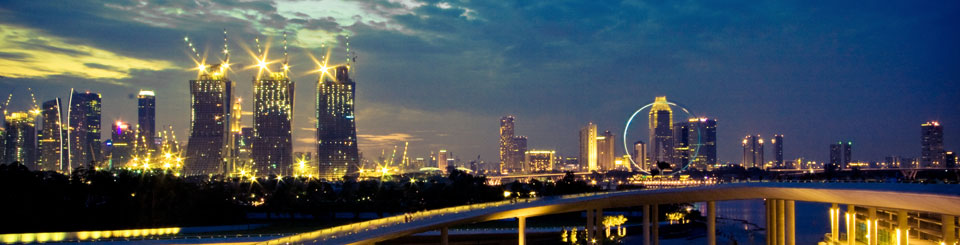
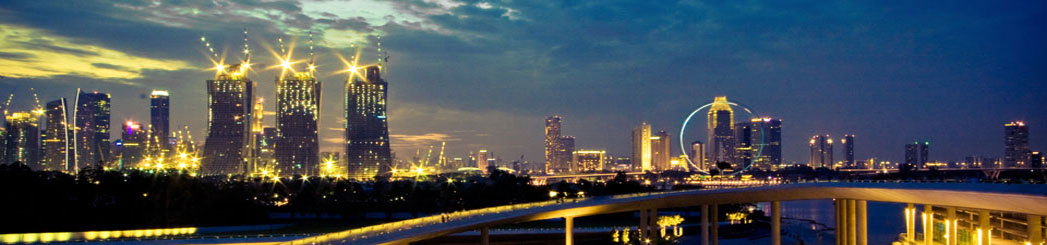
Theme Flexibility Changes
Made the theme a bit more flexible by changing some of the background
images into regular css. Also put some of the old widgets onto the
homepage.

Changed region(s): [[0.0625, 0.5714, 0.0938, 0.6286]]

diff --git a/themes/urban_city/css/templatemo_style.css b/themes/urban_city/css/templatemo_style.css
@@ -9,10 +9,8 @@ body {
 	font-family: Tahoma, Geneva, sans-serif;
 	font-size: 12px;
 	line-height: 1.7em; 
-	background-image: url(/themes/urban_city/images/templatemo_body.jpg);
+	/*background-image: url(/themes/urban_city/images/templatemo_body.jpg);*/
 	background-color: #fff;
-	background-position: top center;
-	background-repeat: repeat-x
 }
 
 a, a:link, a:visited { color: #38cdff; text-decoration: none; }
@@ -65,23 +63,45 @@ a.more:hover { text-decoration: none; color: #fff; }
 .tmo_list li a:hover { color: #990000; text-decoration: none; }
 
 #templatemo_wrapper {
-	width: 70%;
+	width: 100%;
+	background-image: url(/themes/urban_city/images/templatemo_body.jpg);
+	background-position: top center;
+	background-repeat: repeat-x;
+}
+
+#templatemo_body {
+	width: 80%;
 	margin: 0 auto;
 }
 
 #templatemo_header {
     height: 87px;
     padding: 0 0 0 30px;
-    margin-bottom: 40px;
-    background: url(/themes/urban_city/images/templatemo_header.jpg) no-repeat;
-	background-position: 10% 0%;
+    background-color: #041823;
 }
 
 #site_title {
 	float: left;
 	width: 20%;
-	padding-top: 28px;
+	padding-top: 25px;
+	padding-bottom: 3px;
 	margin-right: 40px;
+	margin-left: 10px;
+	margin-top: 18px;
+	margin-bottom: 15px;
+	background-color: #0A2F42;
+	/* IE10 Consumer Preview */ 
+	background-image: -ms-linear-gradient(top, #13465B 0%, #0A2F42 100%);
+	/* Mozilla Firefox */ 
+	background-image: -moz-linear-gradient(top, #13465B 0%, #0A2F42 100%);
+	/* Opera */ 
+	background-image: -o-linear-gradient(top, #13465B 0%, #0A2F42 100%);
+	/* Webkit (Safari/Chrome 10) */ 
+	background-image: -webkit-gradient(linear, left top, left bottom, color-stop(0, #13465B), color-stop(1, #0A2F42));
+	/* Webkit (Chrome 11+) */ 
+	background-image: -webkit-linear-gradient(top, #13465B 0%, #0A2F42 100%);
+	/* W3C Markup, IE10 Release Preview */ 
+	background-image: linear-gradient(to bottom, #13465B 0%, #0A2F42 100%);
 }
 
 #site_title h1 {

diff --git a/themes/urban_city/css/bootstrap.min.css b/themes/urban_city/css/bootstrap.min.css
@@ -386,8 +386,8 @@ a:hover {
     clear: both;
 }
 .container-fluid {
-    padding-right: 20px;
-    padding-left: 20px;
+    padding-right: 0px;
+    padding-left: 0px;
     *zoom: 1;
 }
 .container-fluid:before, .container-fluid:after {

diff --git a/themes/urban_city/css/nivo-slider.css b/themes/urban_city/css/nivo-slider.css
@@ -20,7 +20,7 @@
 	position:absolute;
 	top:0px;
 	left:0px;
-	width: 960px;
+	width: 1047px;
 	height: 280px
 }
 /* If an image is wrapped in a link */

diff --git a/themes/urban_city/css/abound.css b/themes/urban_city/css/abound.css
@@ -901,3 +901,7 @@ span.required
 .pager .next a, .pager .next span {
 	float: left;
 }
+
+#nivo {
+	max-height: 285px;
+}

diff --git a/themes/urban_city/views/site/index.php b/themes/urban_city/views/site/index.php
@@ -1,8 +1,10 @@
 
 <div id="templatemo_wrapper">
 	
+	<div id="templatemo_body">
+	
 	<div class="row-fluid">
-		<div class="span10">
+		<div class="span12" id="nivo">
 			<div id="slider">
 				<a href="#" target="_parent"><img src="<?php echo Yii::app()->theme->baseUrl;?>/images/slideshow/01.jpg" alt="01" title="Lorem ipsum dolor sit amet, consectetur adipiscing elit." /></a>
 				<a href="#" target="_parent"><img src="<?php echo Yii::app()->theme->baseUrl;?>/images/slideshow/02.jpg" alt="02" title="Nullam ante leo, consectetur eget adipiscing et." /></a>
@@ -15,7 +17,21 @@
 	
 	<div class="row-fluid">
 		<div id="templatemo_middle">
-			<div class="span6 v_divider">
+			<div class="span4 v_divider">
+				<?php
+				if(!isset(Yii::app()->user->id))
+					$this->widget('UserLogin');
+				else
+				{
+					echo "<h4>Last Login</h4>";
+					$this->widget('TimeReport');
+					echo "<h4>Weather</h4>";
+					$this->widget('WeatherReport');
+				}
+				?>
+			</div>
+			
+			<div class="span5 v_divider">
 				<h1>Welcome to CI2.0</h1>
 				<p>This is an Intranet website and can only be accessed from a computer 
 				inside the Metro/JIS Domain, just open an internet window and in the
@@ -25,22 +41,11 @@
 				You must be a Criminal Court Clerk employee to create an account. 
 				Site functions are disabled until you have logged in.</p>
 			</div>
-			
-			<div class="span5">
-				<div>
-					<p>
-						Donec iaculis felis id neque. Morbi nunc. Praesent varius egestas velit.
-					</p>
-					<p>
-						Donec a massa ut pede pulvinar vulputate Nulla et augue. Sed eu nunc quis pede tristique suscipit.
-					</p>
-					<p>
-						Nam sit amet justo vel libero tincidunt dignissim Cras magna velit, pellentesque mattis, faucibus vitae, feugiat vitae, sapien.
-					</p>
-					<p>
-						Fusce ac orci sit Amet velit ultrices condimentum. Integer imperdiet odio ac eros.
-					</p>
-				</div>
+			<div class="span3">
+				<?php 
+				echo "<h4>News</h4>";
+				$this->widget('NewsReport');
+				?>
 			</div>
 		</div>
 	</div>
@@ -48,10 +53,6 @@
 	<div class="row-fluid">
     <div id="templatemo_content">
 		
-		<?php
-    	if(!isset(Yii::app()->user->id))
-			$this->widget('UserLogin');
-		?>
     	<div class="span6">
         	<h2>Photo Gallery</h2>
             <ul class="gallery">
@@ -95,4 +96,5 @@
 		</div>
     </div>
 	</div>
+</div>
 </div>

diff --git a/themes/urban_city/views/layouts/column2.php b/themes/urban_city/views/layouts/column2.php
@@ -1,10 +1,11 @@
 <?php /* @var $this Controller */ ?>
 <?php $this->beginContent('//layouts/main'); ?>
-
-  <div class="row-fluid">
+	<br/>
+	<div id="templatemo_body">
+	<div class="row-fluid">
 	<div class="span3">
 		<div class="sidebar-nav">
-        
+
 		  <?php $this->widget('zii.widgets.CMenu', array(
 			/*'type'=>'list',*/
 			'encodeLabel'=>false,
@@ -16,7 +17,7 @@
 				array('label'=>'<i class="icon icon-book"></i> Human Resources', 'url'=>array('/hr/hrpolicy/index')),
 				// The link to the emergency response plan.
 				array('label'=>'<i class="icon icon-fire"></i> Emergency Response Plan', 'url'=>Yii::app()->baseUrl . '/assets/files/cep.pdf'),
-				
+
 				// Include the operations menu
 				array('label'=>'OPERATIONS','items'=>$this->menu1),
 			),
@@ -33,24 +34,24 @@
 			$this->endWidget();
 		  ?>
 		</div>
-        <br>
-		
-    </div><!--/span-->
-    <div class="span9">
-    
-    <?php if(isset($this->breadcrumbs)):?>
+		<br>
+	</div><!--/span-->
+	
+	<div class="span9">
+
+	<?php if(isset($this->breadcrumbs)):?>
 		<?php $this->widget('zii.widgets.CBreadcrumbs', array(
-            'links'=>$this->breadcrumbs,
+			'links'=>$this->breadcrumbs,
 			'homeLink'=>CHtml::link('Home', '/'),
 			'htmlOptions'=>array('class'=>'breadcrumb')
-        )); ?><!-- breadcrumbs -->
-    <?php endif?>
-    
-    <!-- Include content pages -->
-    <?php echo $content; ?>
+		)); ?><!-- breadcrumbs -->
+	<?php endif?>
+
+	<!-- Include content pages -->
+	<?php echo $content; ?>
 
 	</div><!--/span-->
-  </div><!--/row-->
-
+	</div><!--/row-->
+	</div>
 
 <?php $this->endContent(); ?>

diff --git a/themes/urban_city/views/layouts/tpl_navigation.php b/themes/urban_city/views/layouts/tpl_navigation.php
@@ -20,6 +20,7 @@
 							array('label'=>'<span class="home"></span>Home', 'url'=>'/site/index'),
 							array(
 								'label'=>'<span class="portfolio"></span>Helpdesk <span class="caret"></span>', 'url'=>'#','itemOptions'=>array('class'=>'dropdown','tabindex'=>"-1"),'linkOptions'=>array('class'=>'dropdown-toggle','data-toggle'=>"dropdown"),
+								'visible'=>!Yii::app()->user->isGuest,
 								'items'=>array(
 									array('label'=>'Create Ticket', 'url'=>array('/tickets/troubletickets/create')),
 									array('label'=>'View Open Tickets', 'url'=>array('/tickets/troubletickets/index', 'status'=>'Open')),
